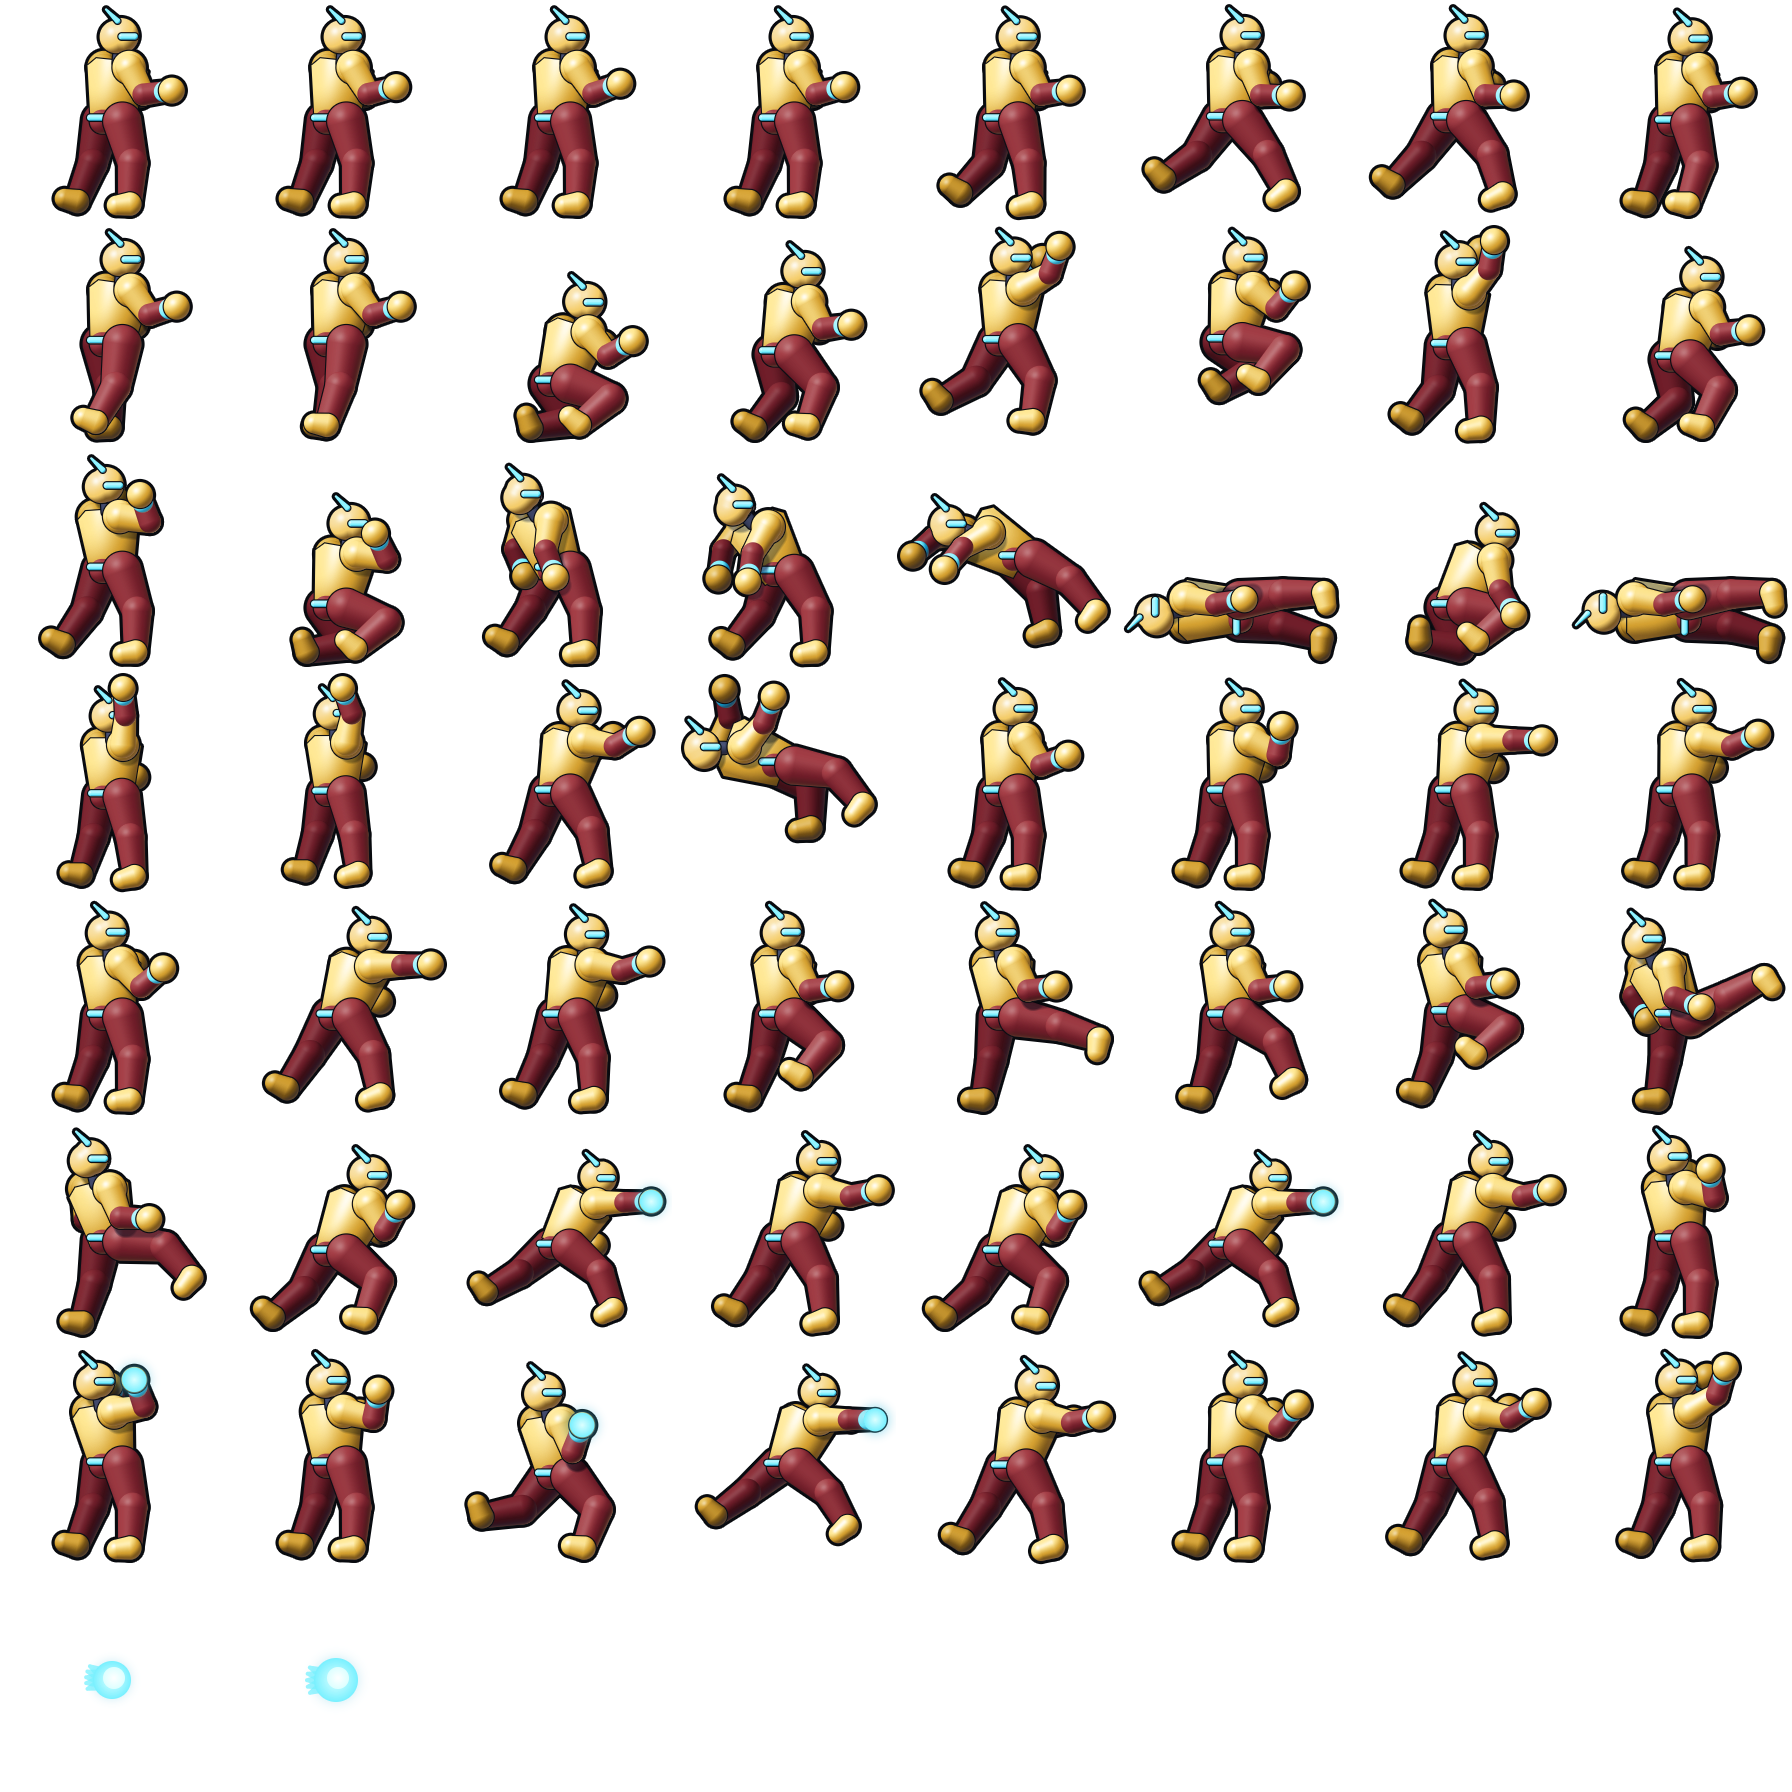
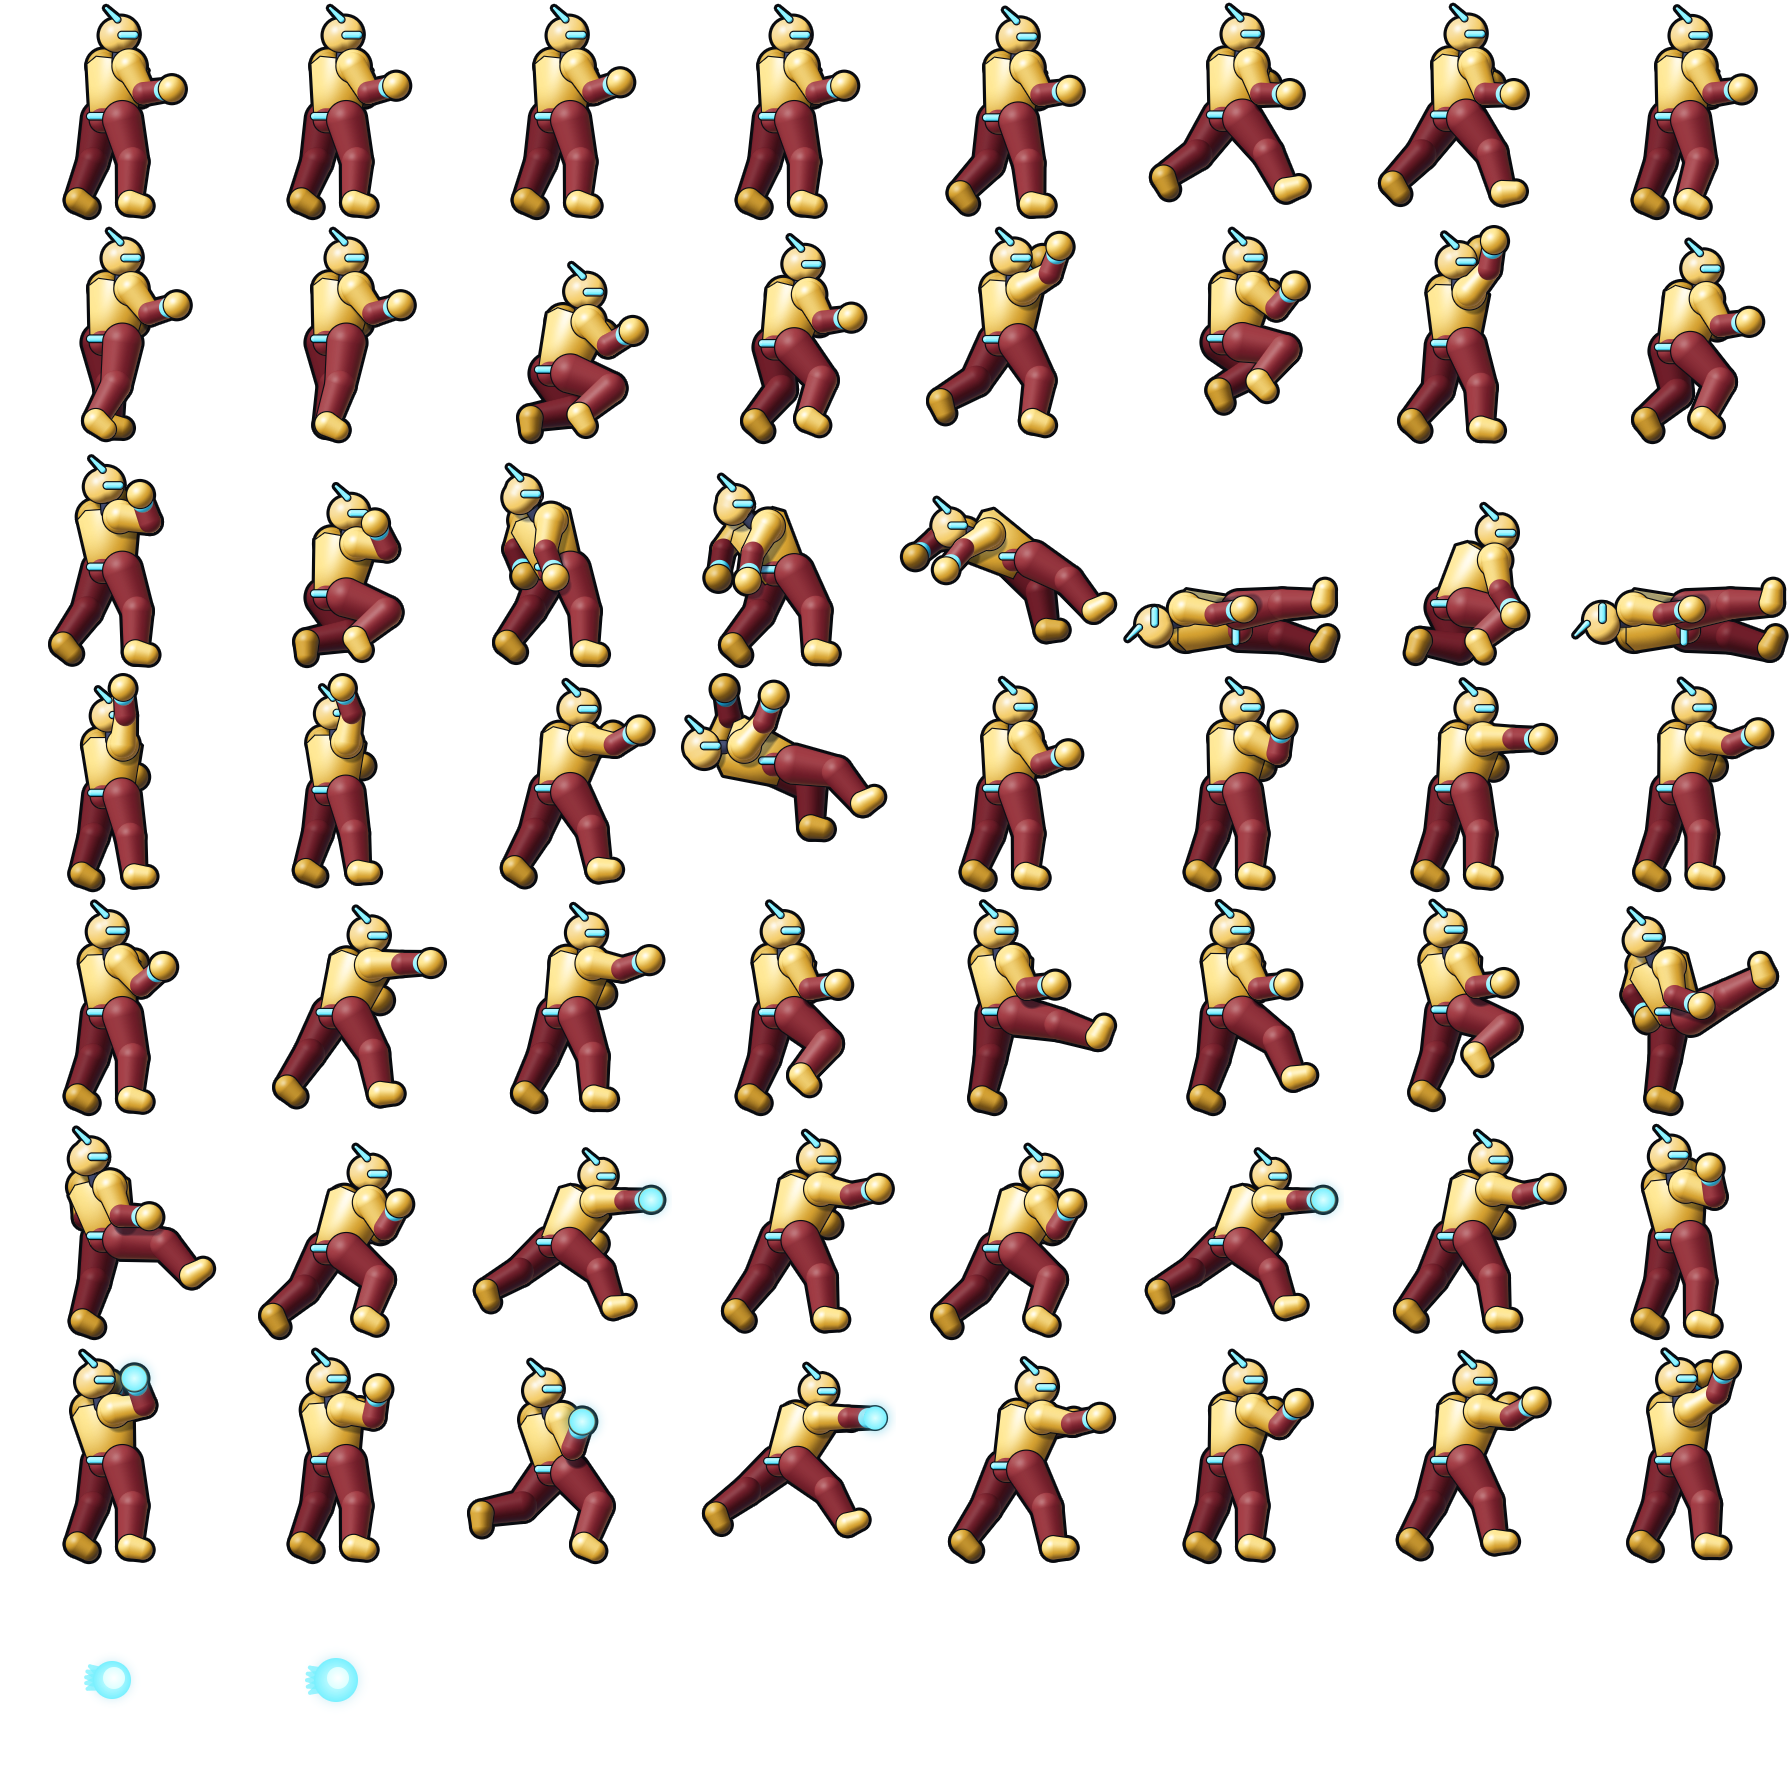
fix(art): fighter toes point forward, not backward
Claude-Session: https://claude.ai/code/session_01Y9XV58RY4sDZejHydTbcae

diff --git a/scripts/art/gen_fighters.py b/scripts/art/gen_fighters.py
@@ -764,7 +764,7 @@ def build_figure(design, pose, ground=None, fit=True):
         ankle = add(knee, vec(ta - kb, shin))
         fig.cap(hp, knee, limb_r * 1.55, limb_r * 1.2, design["pants"], layer, bias)
         fig.cap(knee, ankle, limb_r * 1.2, limb_r * 0.95, design["pants"], layer, bias)
-        toe = add(ankle, vec(ta - kb - 80, 6.5 * s))
+        toe = add(ankle, vec(ta - kb + 80, 6.5 * s))  # toes point forward (sheet faces right, +x)
         fig.cap(ankle, toe, limb_r * 0.95, limb_r * 0.8, design["boots"], layer + 0.5, bias)
 
     # back limbs (far side, darker), torso, head, front limbs
